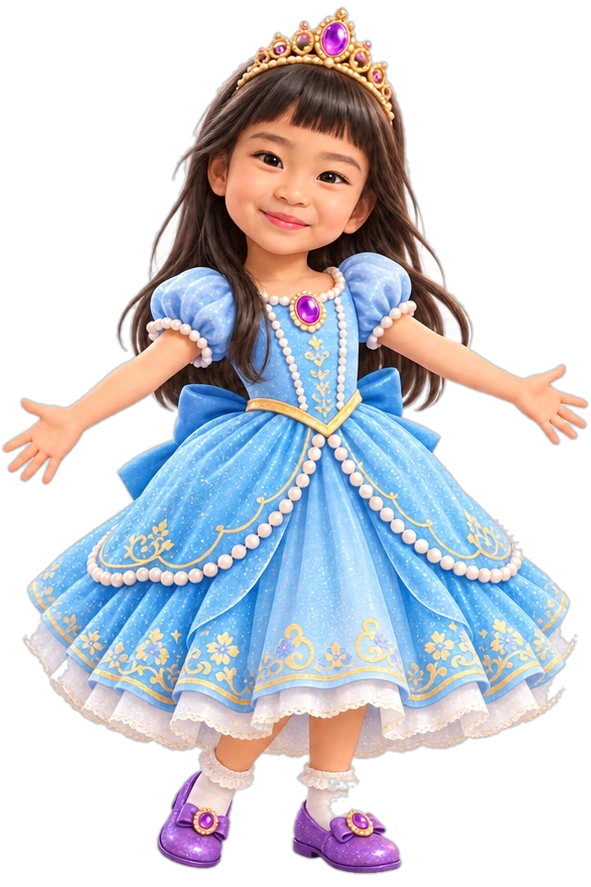
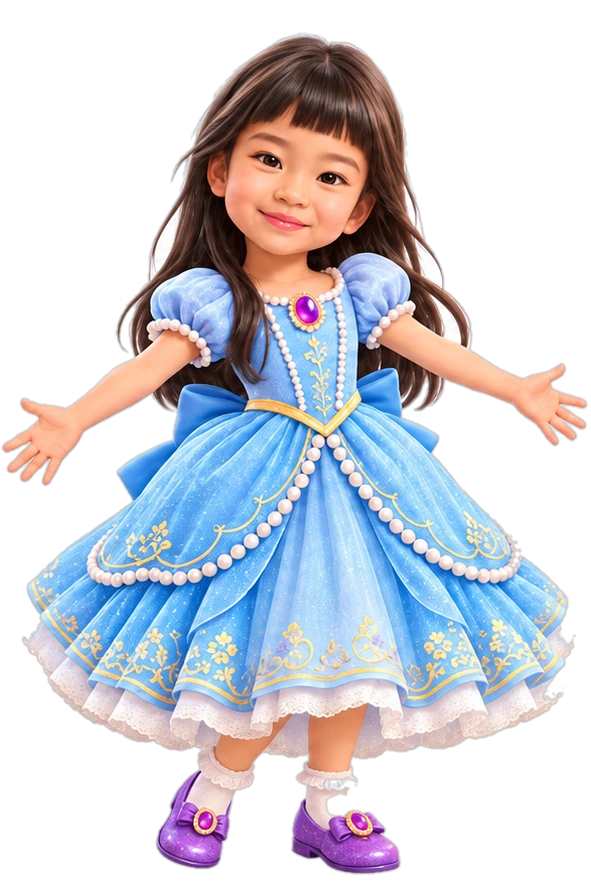
Dress Up: Crownなし新Dress素材に差し替え、DRESS×CROWNを完全独立化
Pink/Blue/Yellow Dressを、王冠なしで作り直したユーザー提供素材に
完全差し替え。これによりDRESSとCROWNが二重王冠なしで同時成立する
ようになった(Dressを変えてもCrownは消えず、Crownを変えてもDressは
変わらない)。

- assets/dressup/dresses/{pink,blue,yellow}.webp を新素材に置き換え
  (添付の3人並び画像を自動分割・背景透明化・2:3キャンバスへ配置、
  既存アセットと同じ解像度591x887)
- computeDressupVisual()の二重王冠防止ロジックを、DRESS/SHOES固有の
  ハードコードから、各アイテムのcrownBakedフラグによるデータ駆動判定に
  刷新。crownBaked:trueなHAIRの3枚のみCrownレイヤーを強制非表示にし、
  crownBakedを持たない新DRESS素材はCrownと自動的に共存する
- 優先順位はSHOES/DRESS(crownBaked時のみCrown非表示) > CROWN(Base
  Princess+Crownレイヤー) > HAIR(crown常に非表示) > 無地、に整理
  (CrownがHAIRだけの状態より優先されるという既存の挙動は維持)
- crownStyleをbodyKey(base/pink/blue/yellow)ごとの値を持てる構造に
  拡張。Dress画像ごとに頭位置が微妙に異なる可能性に対応
  (実際はほぼ同ポーズだったため4値とも同一のまま問題なかった、
  Playwrightスクリーンショットで確認済み)
- テスト専用フックwindow.__dressupDebug.equip()を追加(ゲームUIからは
  一切呼ばれない)。固定順クイズでは再現できない「DRESS装着後に
  別のCrownへ架け替える」動作を、実際のレンダリング関数を通して
  直接検証するために使用

テスト: 新規dressup_dress_crown_test.js(21件全て成功。Pink+Purple/
Blue+Flower/Yellow+Goldの同時成立、Blue+FlowerからPurpleへの
Crownだけの架け替え、発音練習/次カテゴリー/完成画面での維持を確認)。
既存dressup_crown_test.js(25件、二重王冠防止の期待値をcrownBaked方式に
合わせて更新)/dressup_test.js(37)/dressup_asset_test.js(30)/
dressup_hair_asset_test.js(46)/dressup_equip_state_test.js(10)、
Body Parts一式(dance/reduced-motion/hands-containment/lr)、audio_test.js
も全て回帰確認済み。

Claude-Session: https://claude.ai/code/session_01HkLw4GnaAUNogTQggMc8pA

diff --git a/dressup.js b/dressup.js
@@ -37,17 +37,22 @@
  *     単独で重ね描画される本物の独立レイヤー実装（hasAssetの「全身丸ごと
  *     上書き」とは異なり、正解タップのたびにCrownだけが交換される）。
  *     HAIR/DRESS/SHOESはまだ全身画像(hasAsset)のみでlayerPath未設定。
- *   - 【重要な既知の制約：全身画像とCrownレイヤーの優先表示】 HAIR/DRESSの
- *     画像は「もう片方のカテゴリー込みの全身portrait」（HAIR画像=Purple
- *     Dress+Gold Crown固定、DRESS画像=Long Hair+Gold Crown固定）であり、
- *     どちらも元からGold Crown相当が焼き込まれている。そのためCrown
- *     レイヤーは、SHOES/DRESSの全身画像がPreviewに表示されている間は
- *     二重王冠を避けるため必ず非表示になる（WHOLE_BODY_PRIORITYが
- *     SHOES/DRESSを優先する間、CROWNは独立レイヤーとして見せられない）。
+ *   - 【重要な既知の制約：HAIRの全身画像とCrownレイヤーの優先表示】
+ *     DRESSは2回目のリクエストでCrownなしの素材（Pink/Blue/Yellow、
+ *     assets/dressup/dresses/*.webp）に差し替え済みのため、DRESSと
+ *     CROWNは完全に独立して同時成立する（Dressを変えてもCrownは消えず、
+ *     Crownを変えてもDressは変わらない）。一方HAIRの画像（Purple Dress
+ *     +Gold Crown固定の全身portrait）は元から王冠が焼き込まれた
+ *     ままなので、HAIRの全身画像がPreviewに表示されている間
+ *     （＝まだDRESSを選んでいない間）は、二重王冠を避けるため
+ *     Crownレイヤーを必ず非表示にする。これは各アイテムの
+ *     `crownBaked`フラグ（trueならCrown同時表示を禁止）による
+ *     データ駆動の判定で、WHOLE_BODY_PRIORITY（shoes > dress > hair）
+ *     で選ばれた全身画像のcrownBakedを見るだけで済むようにしてある。
  *     dressup.equipped.crown/hair自体はきちんと保持されたままなので、
  *     Look Badge／選択肢カードの金枠+✓には正しく反映され続ける。
- *     詳細と将来の完全解消への移行方針（Crownなし版Dress/Shoes素材が
- *     必要）は assets/dressup/README.md、および computeDressupVisual /
+ *     詳細と将来の完全解消への移行方針（Crownなし版Hair素材が必要）は
+ *     assets/dressup/README.md、および computeDressupVisual /
  *     handleDressUpChoiceTap内のコメントを参照。
  */
 (function () {
@@ -106,6 +111,11 @@
           assetPath: "assets/dressup/hair/long.webp",
           thumbPath: "assets/dressup/hair/long_thumb.webp",
           hasAsset: true,
+          // この全身画像には元からGold Crown相当が焼き込まれている。
+          // Crownレイヤーと同時表示すると二重王冠になるため、この画像が
+          // Baseレイヤーに表示されている間はCrownレイヤーを必ず隠す
+          // （computeDressupVisual参照）。
+          crownBaked: true,
         },
         {
           id: "ponytail",
@@ -117,6 +127,7 @@
           assetPath: "assets/dressup/hair/ponytail.webp",
           thumbPath: "assets/dressup/hair/ponytail_thumb.webp",
           hasAsset: true,
+          crownBaked: true,
         },
         {
           id: "braids",
@@ -128,6 +139,7 @@
           assetPath: "assets/dressup/hair/braids.webp",
           thumbPath: "assets/dressup/hair/braids_thumb.webp",
           hasAsset: true,
+          crownBaked: true,
         },
       ],
     },
@@ -145,9 +157,17 @@
           icon: "👑",
           layerPath: "assets/dressup/crowns/gold.webp",
           thumbPath: "assets/dressup/crowns/gold.webp",
-          // #dressup-layer-crown へ適用するCSS位置（Base Princessの頭部に
-          // 個別合わせ。Playwrightスクリーンショットで目視確認・微調整済み）。
-          crownStyle: { top: "3.6%", left: "37.3%", width: "26%" },
+          // #dressup-layer-crown へ適用するCSS位置。Baseレイヤーに表示中の
+          // 画像（bodyKey: base/pink/blue/yellow）ごとに頭の位置が微妙に
+          // 違うため、bodyKeyごとに個別値を持つ（Playwrightスクリーン
+          // ショットで目視確認・調整済み。pink/blue/yellowはbaseと
+          // ほぼ同じポーズだったため実質同値で問題なかった）。
+          crownStyle: {
+            base: { top: "3.6%", left: "37.3%", width: "26%" },
+            pink: { top: "3.6%", left: "37.3%", width: "26%" },
+            blue: { top: "3.6%", left: "37.3%", width: "26%" },
+            yellow: { top: "3.6%", left: "37.3%", width: "26%" },
+          },
         },
         {
           id: "flower",
@@ -158,7 +178,12 @@
           icon: "🌸",
           layerPath: "assets/dressup/crowns/flower.webp",
           thumbPath: "assets/dressup/crowns/flower.webp",
-          crownStyle: { top: "3.8%", left: "35.5%", width: "29.5%" },
+          crownStyle: {
+            base: { top: "3.8%", left: "35.5%", width: "29.5%" },
+            pink: { top: "3.8%", left: "35.5%", width: "29.5%" },
+            blue: { top: "3.8%", left: "35.5%", width: "29.5%" },
+            yellow: { top: "3.8%", left: "35.5%", width: "29.5%" },
+          },
         },
         {
           id: "purple",
@@ -169,7 +194,12 @@
           icon: "👑",
           layerPath: "assets/dressup/crowns/purple.webp",
           thumbPath: "assets/dressup/crowns/purple.webp",
-          crownStyle: { top: "3.2%", left: "37.6%", width: "25.3%" },
+          crownStyle: {
+            base: { top: "3.2%", left: "37.6%", width: "25.3%" },
+            pink: { top: "3.2%", left: "37.6%", width: "25.3%" },
+            blue: { top: "3.2%", left: "37.6%", width: "25.3%" },
+            yellow: { top: "3.2%", left: "37.6%", width: "25.3%" },
+          },
         },
       ],
     },
@@ -187,6 +217,10 @@
           icon: "👗",
           assetPath: "assets/dressup/dresses/pink.webp",
           hasAsset: true, // 実画像あり：正解タップでPrincess Previewがこの画像に変身する
+          // この全身画像はCrownなしで作り直した素材（2回目のリクエストで
+          // 差し替え）。crownBakedを付けないことで、DRESS表示中も
+          // Crownレイヤーを独立して重ねられる（二重王冠にならない）。
+          bodyKey: "pink",
         },
         {
           id: "blue",
@@ -197,6 +231,7 @@
           icon: "👗",
           assetPath: "assets/dressup/dresses/blue.webp",
           hasAsset: true,
+          bodyKey: "blue",
         },
         {
           id: "yellow",
@@ -207,6 +242,7 @@
           icon: "👗",
           assetPath: "assets/dressup/dresses/yellow.webp",
           hasAsset: true,
+          bodyKey: "yellow",
         },
       ],
     },
@@ -345,48 +381,89 @@
 
   /**
    * 現在のdressup.equippedから、実際に描画すべき見た目を1つ計算する。
-   * 戻り値: { bodySrc, showCrownLayer, crownItem }
+   * 戻り値: { bodySrc, showCrownLayer, crownItem, bodyKey }
    *
    *   bodySrc         Baseレイヤー（#dressup-preview-img）に表示する画像。
    *   showCrownLayer  #dressup-layer-crownを表示してよいかどうか。
    *   crownItem       showCrownLayerがtrueのとき、表示すべきCrownアイテム。
+   *   bodyKey         今表示しているbodySrcの種類（"base"/"pink"/"blue"/
+   *                   "yellow"）。Crownの頭位置(crownStyle)はbodySrcごとに
+   *                   微妙に違うため、applyCrownLayerがこれを見て
+   *                   crownItem.crownStyle[bodyKey]を選ぶ。
    *
-   * 【判定ロジックと「二重王冠」対策】
-   * SHOES/DRESSの全身画像（hasAsset:true）が選ばれている場合は最優先で
-   * それを表示する。これらの画像には最初からGold Crown相当が焼き込まれて
-   * いるため、その上にCrownレイヤーを重ねると二重王冠になってしまう
-   * ＝ showCrownLayer は必ずfalseにする（ご指示の「二重王冠は絶対禁止」を
-   * 最優先で守るため）。
-   * 次にCROWNが選ばれていれば、CrownなしのBase Princess
-   * （assets/dressup/base/base.webp）をBaseレイヤーに表示し、その上に
-   * 選んだCrownレイヤーを重ねる＝本物の「着せ替え」になる。
-   * CROWNが未選択でHAIRの全身画像があればそれを表示する（これはCrownが
-   * 選ばれるまでの、これまでと全く同じ見た目を維持するための分岐）。
+   * 【判定ロジックと「二重王冠」対策（データ駆動）】
+   * SHOES/DRESSの全身画像（hasAsset:true、HAIRは除く）が選ばれている
+   * 場合は最優先で表示する。その画像がitem.crownBaked===trueなら
+   * （＝元から王冠が焼き込まれた画像、現在はHAIRの3枚のみ。ただしHAIRは
+   * このSHOES/DRESSチェックには含めず、常に3番目の分岐で扱う）、Crown
+   * レイヤーを重ねると二重王冠になるため必ず非表示にする（ご指示の
+   * 「二重王冠は絶対禁止」を最優先）。crownBakedが付いていない全身画像
+   * （現在はDRESSのPink/Blue/Yellow。2回目のリクエストでCrownなし素材に
+   * 差し替え済み）は、Crownレイヤーと安全に共存できるため、
+   * equipped.crownがあればそのまま独立レイヤーとして重ねる＝
+   * 「Dress×Crownが同時に成立する」。
+   * SHOES/DRESSが未選択でCROWNが選ばれていれば、CrownなしのBase
+   * Princess（assets/dressup/base/base.webp）をBaseレイヤーに表示し、
+   * その上に選んだCrownレイヤーを重ねる（＝まだHAIRの全身画像しか無い
+   * 状態より、CROWNが選ばれていることを優先する）。
+   * CROWNも未選択でHAIRの全身画像があればそれを表示する（Crownが
+   * 選ばれるまでの、これまでと同じ見た目を維持するための分岐）。
    * 何も選ばれていなければBase Princessのまま。
    *
-   * 【既知の制約】SHOES/DRESSが選ばれるとCrownレイヤーは非表示になる
-   * （dressup.equipped.crown自体は保持されたまま。Look Badge/選択肢カード
-   * の金枠には影響しない）。これはSHOES/DRESSの全身画像に元から別の
-   * 王冠が焼き込まれており、二重王冠を避けるには「Crownなし版の
-   * Dress/Shoes全身画像」が別途必要なため。詳細はREADME参照。
+   * 優先順位まとめ：SHOES/DRESS(crownBaked時はCrown強制非表示) >
+   * CROWN(Base Princess+Crownレイヤー) > HAIR(crown常に非表示) > 無地。
+   *
+   * 【既知の制約（HAIRのみ残存）】HAIRの全身画像がBaseレイヤーに
+   * 表示されている間（＝まだDRESS/CROWNを選んでいない状態）は、上記の
+   * 通りCrownレイヤーが非表示になる（dressup.equipped.crown自体は
+   * 保持されたまま。Look Badge/選択肢カードの金枠には影響しない）。
+   * これはHAIR画像に元から別の王冠が焼き込まれており、二重王冠を避ける
+   * には「Crownなし版のHair全身画像」が別途必要なため。詳細はREADME参照。
    */
   function computeDressupVisual() {
+    const crownItem = dressup.equipped.crown;
+    const hasCrown = !!(crownItem && crownItem.layerPath);
+
+    // 1. SHOES/DRESSの全身画像(hair以外)を優先順位順にチェックする。
+    //    hairはここでは意図的にスキップする＝下のCROWN判定より優先度を
+    //    下げるため（CROWNが選ばれていれば、単に選ばれているだけのHAIRの
+    //    全身画像より優先してBase Princess+Crownを見せたい）。
     for (const catId of WHOLE_BODY_PRIORITY) {
-      if (catId === "hair") break; // hairは下で別扱い（crownとの優先順位のため）
+      if (catId === "hair") continue;
       const item = dressup.equipped[catId];
       if (item && item.hasAsset && item.assetPath) {
-        return { bodySrc: item.assetPath, showCrownLayer: false, crownItem: null };
+        if (item.crownBaked) {
+          // 二重王冠防止：この全身画像には既に王冠が焼き込まれているため
+          // Crownレイヤーは必ず非表示にする。
+          return { bodySrc: item.assetPath, showCrownLayer: false, crownItem: null, bodyKey: null };
+        }
+        // crownBakedが付いていない全身画像（Pink/Blue/Yellow Dress）は
+        // Crownレイヤーと安全に共存できる。
+        return {
+          bodySrc: item.assetPath,
+          showCrownLayer: hasCrown,
+          crownItem: hasCrown ? crownItem : null,
+          bodyKey: item.bodyKey || "base",
+        };
       }
     }
-    const crownItem = dressup.equipped.crown;
-    if (crownItem && crownItem.layerPath) {
-      return { bodySrc: DRESSUP_BASE_IMAGE, showCrownLayer: true, crownItem };
+
+    // 2. SHOES/DRESSが未選択でCROWNが選ばれていれば、CrownなしのBase
+    //    Princessの上にCrownレイヤーを重ねる（まだHAIRの全身画像しか
+    //    無い状態より、こちらを優先する）。
+    if (hasCrown) {
+      return { bodySrc: DRESSUP_BASE_IMAGE, showCrownLayer: true, crownItem, bodyKey: "base" };
     }
+
+    // 3. CROWNも未選択でHAIRの全身画像があればそれを表示する（Crownが
+    //    選ばれるまでの、これまでと同じ見た目を維持するための分岐。
+    //    HAIR画像は常にcrownBaked扱いなのでCrownレイヤーは表示しない）。
     const hairItem = dressup.equipped.hair;
     if (hairItem && hairItem.hasAsset && hairItem.assetPath) {
-      return { bodySrc: hairItem.assetPath, showCrownLayer: false, crownItem: null };
+      return { bodySrc: hairItem.assetPath, showCrownLayer: false, crownItem: null, bodyKey: null };
     }
-    return { bodySrc: DRESSUP_BASE_IMAGE, showCrownLayer: false, crownItem: null };
+
+    return { bodySrc: DRESSUP_BASE_IMAGE, showCrownLayer: false, crownItem: null, bodyKey: "base" };
   }
 
   function prefersReducedMotion() {
@@ -451,17 +528,23 @@
   /**
    * メインプレビュー／発音練習／完成の3枚すべてのCrownレイヤー<img>を、
    * computeDressupVisual()の結果に合わせて同期する（「発音画面に進んでも
-   * Crownを外さないこと」という要件のため、3枚とも常に同じ見た目に保つ）。
-   * 表示する場合は、そのCrownアイテムのcrownStyle（Base Princessの頭部に
-   * 合わせて個別調整したtop/left/width）を毎回適用し直す（Crownごとに
-   * 形もサイズも違うため、共通のCSS数値を無理に共有しない）。
+   * Crownを外さないこと」「DRESSを変えてもCrownを外さないこと」という
+   * 要件のため、3枚とも常に同じ見た目に保つ）。
+   * 表示する場合は、そのCrownアイテムのcrownStyle（頭の位置に合わせて
+   * 個別調整したtop/left/width）を毎回適用し直す。crownStyleは
+   * bodyKey（今Baseレイヤーに表示中の画像の種類："base"/"pink"/"blue"/
+   * "yellow"）ごとの値を持つオブジェクトになっており、Dress画像ごとに
+   * 微妙に違う頭の位置に合わせて個別に選ばれる（見つからない場合は
+   * baseの値にフォールバック）。Crownごとに形もサイズも違うため、
+   * 共通のCSS数値を無理に共有しない。
    * playPop=trueのとき、装着/交換の瞬間の「魔法でポンッ」演出
    * （dressup-crown-pop、0.3秒・opacity+均一scaleのみ）を発火する。
    */
   function applyCrownLayer(visual, playPop) {
     crownLayerEls.forEach((el) => {
       if (visual.showCrownLayer && visual.crownItem && visual.crownItem.layerPath) {
-        const style = visual.crownItem.crownStyle || {};
+        const styleMap = visual.crownItem.crownStyle || {};
+        const style = styleMap[visual.bodyKey] || styleMap.base || {};
         el.style.top = style.top || "4%";
         el.style.left = style.left || "37%";
         el.style.width = style.width || "26%";
@@ -774,24 +857,26 @@
     // フェード＋scaleと、プレビュー自身の上に咲くsparkleで演出する。
     //
     // 【重要：Hair × Dressの組み合わせについて】
-    // 現在のHAIR画像は「Purple Dress + 選んだ髪型」の全身portrait、
-    // DRESS画像は「Long Hair + 選んだドレス色」の全身portraitであり、
-    // どちらも“もう片方のカテゴリー込みの完成画像”しか無い（髪だけ・
-    // ドレスだけの透明レイヤー素材ではない＝layerPath未設定）。そのため
-    // 今の実装は「WHOLE_BODY_PRIORITY（shoes > dress > hair）に従って
-    // 1枚だけを portrait 全体として表示する」方式にしてある。現状DRESSが
-    // HAIRより優先されるため、実際には
-    //   HAIRを選ぶ → Previewがその髪型のportraitに変身
-    //   DRESSを選ぶ → Previewがそのドレス色のportraitに変身
-    //                 （＝見た目上は選んだ髪型が消え、Dress画像に
-    //                   焼き込まれているLong Hairに戻って見える）
+    // 現在のHAIR画像は「Purple Dress + Gold Crown + 選んだ髪型」の全身
+    // portraitであり、髪だけの透明レイヤー素材ではない（layerPath未設定）。
+    // 一方DRESS画像（Pink/Blue/Yellow）は2回目のリクエストでCrownなし素材
+    // に差し替え済みで、Hairは含まれていない（Long Hair固定ですらない、
+    // Crownと同様に独立ではないだけ）。そのため今の実装は
+    // 「WHOLE_BODY_PRIORITY（shoes > dress > hair）に従って1枚だけを
+    // portrait全体として表示する」方式のまま。現状DRESSがHAIRより優先
+    // されるため、実際には
+    //   HAIRを選ぶ → Previewがその髪型のportrait（Gold Crown込み）に変身
+    //   DRESSを選ぶ → Previewがそのドレス色のportrait（Crownなし）に変身
+    //                 （＝見た目上は選んだ髪型が消える。ただしCrownは
+    //                   下記の通りDRESS画像がCrownなしになったため
+    //                   引き続き独立レイヤーとして重なり続ける）
     // という挙動になる。dressup.equipped.hair 自体はそのままきちんと
     // 保持されており（Look Badgeの「HAIR達成」表示やスコアには影響
     // しない）、あくまで“今表示されている見た目”だけがDress優先になる、
-    // という仕様上の制約。将来、髪だけ／ドレスだけの透明レイヤー素材
-    // （同一base・同一座標）が揃った場合は、そのアイテムに
-    // layerPath/layerSlotを設定するだけでWHOLE_BODY_PRIORITYより優先され
-    // ず独立表示に切り替わる（コード変更不要。assets/dressup/README.md参照）。
+    // という仕様上の制約。将来、髪だけの透明レイヤー素材（同一base・
+    // 同一座標）が揃った場合は、そのアイテムにlayerPath/layerSlotを
+    // 設定するだけでWHOLE_BODY_PRIORITYより優先されず独立表示に切り替わる
+    // （コード変更不要。assets/dressup/README.md参照）。
     const nextVisual = computeDressupVisual();
     if (nextVisual.bodySrc !== dressup.activePortraitSrc && previewImgEl) {
       const previewCenter = elementRelativeCenter(previewImgEl);
@@ -802,15 +887,22 @@
       swapDressUpPreviewImage(nextVisual.bodySrc);
     }
 
-    // CROWNレイヤーの反映。【重要：二重王冠の防止】SHOES/DRESSの全身画像は
-    // 最初からGold Crown相当が焼き込まれているため、それらがBaseレイヤーに
-    // 表示されている間はCrownレイヤーを必ず非表示にする
+    // CROWNレイヤーの反映。【重要：二重王冠の防止（データ駆動）】
+    // 今Baseレイヤーに表示されている全身画像がitem.crownBaked===trueの
+    // 場合のみ（現在はHAIRの3枚のみ）、Crownレイヤーを必ず非表示にする
     // （computeDressupVisual内でshowCrownLayer:falseとして保証している。
-    // ご指示の「絶対に二重王冠にしない」を最優先している）。そのため
-    // SHOES/DRESSを選んだ瞬間、直前まで見えていたCrownは見た目上消える
-    // （dressup.equipped.crown自体は保持され、Look Badge/選択肢カードの
-    // 金枠には影響しない）。Crownを選んだ瞬間・別のCrownに交換した瞬間
-    // だけ、「魔法でポンッ」の装着演出（dressup-crown-pop）を発火する。
+    // ご指示の「絶対に二重王冠にしない」を最優先している）。DRESS
+    // （Pink/Blue/Yellow）は2回目のリクエストでCrownなし素材に差し替え
+    // 済みのためcrownBakedを持たず、equipped.crownがあればDRESS表示中も
+    // Crownレイヤーがそのまま独立して重なり続ける（＝Dress×Crownが
+    // 同時に成立し、Dressを変えてもCrownは消えない）。HAIRを選んだ瞬間
+    // （まだDRESS未選択の間）だけ、直前まで見えていたCrownは見た目上
+    // 消える（dressup.equipped.crown自体は保持され、Look Badge/選択肢
+    // カードの金枠には影響しない）。Crownを選んだ瞬間・別のCrownに交換
+    // した瞬間だけ、「魔法でポンッ」の装着演出（dressup-crown-pop）を
+    // 発火する（Dressだけを変えてCrown自体は変わっていない場合は
+    // ポップインを再生しない＝「Crownを変えてもDressは変えない、逆も
+    // 同様」という要件どおり、それぞれの変化だけを独立して演出する）。
     const crownVisibleChanged =
       nextVisual.showCrownLayer &&
       (!prevVisual.showCrownLayer || !prevVisual.crownItem || prevVisual.crownItem.id !== nextVisual.crownItem.id);
@@ -1132,4 +1224,35 @@
     const el = document.getElementById(id);
     if (el) el.classList.add("active");
   }
+
+  /**
+   * 【テスト専用フック】window.__dressupDebug
+   * 現在のクイズは固定順(HAIR→CROWN→DRESS→SHOES)で1カテゴリーにつき1問しか
+   * 出題されないため、「DRESSを選び終えた後に、別のCrownへ架け替える」
+   * （＝将来のFREE DRESS UPモードで起きる操作）は、実際のカード操作だけでは
+   * 再現できない。dressup.equippedを直接書き換えてrenderDressUpPreview()を
+   * 再実行するだけの薄いテスト用フックをここに公開し、Playwrightから
+   * 「Dressを変えてもCrownは消えない／Crownを変えてもDressは変わらない」
+   * という中核要件を、実際のレンダリング関数(computeDressupVisual /
+   * applyCrownLayer)を通して直接検証できるようにする。ゲーム画面のUIや
+   * ボタンからは一切呼ばれない、副作用のない検証専用のAPI。
+   */
+  window.__dressupDebug = {
+    equip: function (catId, itemId) {
+      const category = findCategory(catId);
+      if (!category) return false;
+      const item = category.items.find((i) => i.id === itemId);
+      if (!item) return false;
+      dressup.equipped[catId] = item;
+      renderDressUpPreview();
+      return true;
+    },
+    getEquipped: function () {
+      const out = {};
+      Object.keys(dressup.equipped).forEach((k) => {
+        out[k] = dressup.equipped[k] ? dressup.equipped[k].id : null;
+      });
+      return out;
+    },
+  };
 })();
